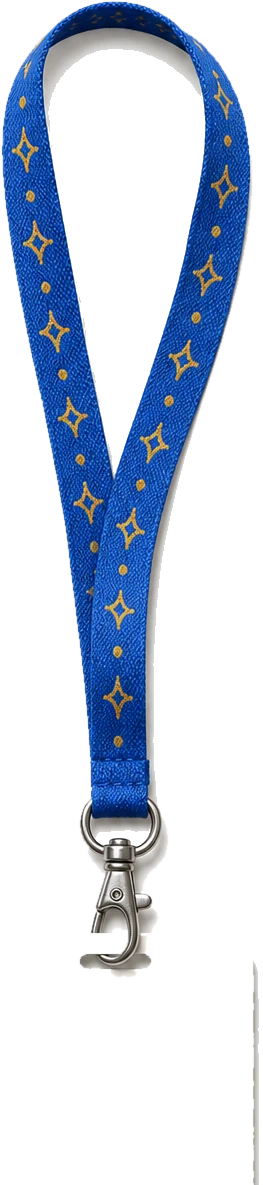
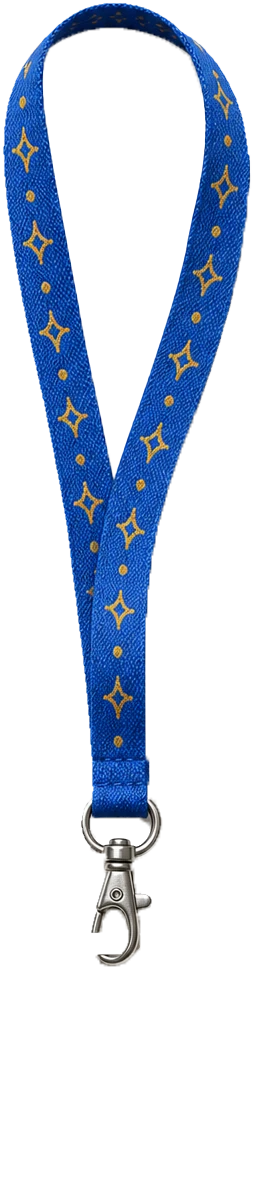
Fix document cover render, add homepage writing teaser, polish content
- Blog document cover: replace the unreliable CSS mask with a gradient
  overlay fade so the peeking pages behind the cover actually render, and
  bump its size
- Add a Latest writing section on the homepage linking to the newest post
- Ticket stubs: fix dates crowding the bottom edge on longer venue names
- Passport: drop the extra black bezel now that the real asset already
  renders its own binding
- Bookshelf: hover tooltip with title/author, linking out to Amazon,
  matching the watches interaction
- Update lanyard and passport-spread art with better keying
- Corkboard notes: refresh building/predicting/obsessing-over/vision cards
- Guard the proverb rolodex against an empty PROVERBS array
- Copy: blog essay title and opening line, about bio caption and aside

Claude-Session: https://claude.ai/code/session_019EimKuCz9ybaspSnoTAJrp

diff --git a/components/sections/reading.tsx b/components/sections/reading.tsx
@@ -32,6 +32,7 @@ function ShelfBook({ book, index }: { book: Book; index: number }) {
   const reduce = useReducedMotion();
   const { bg, ink } = SPINE_STYLES[book.spine];
   const tilt = BOOK_TILTS[index % BOOK_TILTS.length];
+  const amazonUrl = `https://www.amazon.co.uk/s?k=${encodeURIComponent(`${book.title} ${book.author}`)}`;
 
   return (
     <motion.li
@@ -41,34 +42,51 @@ function ShelfBook({ book, index }: { book: Book; index: number }) {
       whileHover={reduce ? undefined : { y: -10, rotate: 0, scale: 1.03 }}
       transition={{ ...springs.soft, delay: index * 0.06 }}
       style={{ rotate: `${tilt}deg` }}
-      className="relative z-10 -mx-1 cursor-default"
+      className="group relative z-10 -mx-1"
     >
-      <div
-        className="relative h-28 w-[4.5rem] overflow-hidden rounded-[2px] rounded-r-[4px] shadow-[0_10px_18px_-8px_rgb(0_0_0/0.55)] sm:h-44 sm:w-28"
-        style={{ background: bg }}
+      <a
+        href={amazonUrl}
+        target="_blank"
+        rel="noopener noreferrer"
+        aria-label={`${book.title} by ${book.author}, find it on Amazon`}
+        className="relative block rounded-[2px] outline-none focus-visible:ring-2 focus-visible:ring-accent"
       >
-        {book.coverImage ? (
-          /* eslint-disable-next-line @next/next/no-img-element */
-          <img src={book.coverImage} alt={`${book.title} cover`} loading="lazy" className="size-full object-cover" />
-        ) : (
-          /* typographic placeholder cover */
-          <div className="flex h-full flex-col justify-between p-2.5 sm:p-4" style={{ color: ink }}>
-            <p className="text-[9px] leading-tight font-bold sm:text-[13px]" style={{ fontFamily: "var(--font-display)" }}>
-              {book.title}
-            </p>
-            <p className="text-[7px] font-semibold tracking-[0.14em] uppercase opacity-85 sm:text-[9px]">{book.author}</p>
-          </div>
-        )}
-        {/* spine shadow at the binding + cover sheen */}
-        <span aria-hidden className="pointer-events-none absolute inset-y-0 left-0 w-3 bg-gradient-to-r from-black/35 to-transparent" />
-        <span aria-hidden className="pointer-events-none absolute inset-0 bg-gradient-to-br from-white/12 via-transparent to-black/10" />
-      </div>
-      {/* page-block thickness on the right edge */}
-      <span
-        aria-hidden
-        className="absolute inset-y-1 -right-1 w-1.5 rounded-r-[2px]"
-        style={{ background: "repeating-linear-gradient(180deg, #efe8d2 0 2px, #ded4b8 2px 3px)" }}
-      />
+        <div
+          className="relative h-28 w-[4.5rem] overflow-hidden rounded-[2px] rounded-r-[4px] shadow-[0_10px_18px_-8px_rgb(0_0_0/0.55)] sm:h-44 sm:w-28"
+          style={{ background: bg }}
+        >
+          {book.coverImage ? (
+            /* eslint-disable-next-line @next/next/no-img-element */
+            <img src={book.coverImage} alt={`${book.title} cover`} loading="lazy" className="size-full object-cover" />
+          ) : (
+            /* typographic placeholder cover */
+            <div className="flex h-full flex-col justify-between p-2.5 sm:p-4" style={{ color: ink }}>
+              <p className="text-[9px] leading-tight font-bold sm:text-[13px]" style={{ fontFamily: "var(--font-display)" }}>
+                {book.title}
+              </p>
+              <p className="text-[7px] font-semibold tracking-[0.14em] uppercase opacity-85 sm:text-[9px]">{book.author}</p>
+            </div>
+          )}
+          {/* spine shadow at the binding + cover sheen */}
+          <span aria-hidden className="pointer-events-none absolute inset-y-0 left-0 w-3 bg-gradient-to-r from-black/35 to-transparent" />
+          <span aria-hidden className="pointer-events-none absolute inset-0 bg-gradient-to-br from-white/12 via-transparent to-black/10" />
+        </div>
+        {/* page-block thickness on the right edge */}
+        <span
+          aria-hidden
+          className="absolute inset-y-1 -right-1 w-1.5 rounded-r-[2px]"
+          style={{ background: "repeating-linear-gradient(180deg, #efe8d2 0 2px, #ded4b8 2px 3px)" }}
+        />
+        {/* proper tooltip with title + author, floats above the cover on hover */}
+        <div className="pointer-events-none absolute bottom-full left-1/2 z-30 mb-1.5 w-max max-w-[13rem] -translate-x-1/2 scale-95 rounded-xl border border-line bg-canvas-raised px-3 py-2 text-left opacity-0 shadow-[var(--shadow-lift)] transition-all duration-150 group-hover:scale-100 group-hover:opacity-100 group-focus-within:scale-100 group-focus-within:opacity-100">
+          <p className="font-display text-sm font-semibold text-ink">{book.title}</p>
+          <p className="mt-0.5 text-xs leading-snug text-ink-soft">{book.author}</p>
+          <span
+            aria-hidden
+            className="absolute top-full left-1/2 size-2.5 -translate-x-1/2 -translate-y-1/2 rotate-45 border-r border-b border-line bg-canvas-raised"
+          />
+        </div>
+      </a>
     </motion.li>
   );
 }

diff --git a/components/sections/latest-writing.tsx b/components/sections/latest-writing.tsx
@@ -1,0 +1,64 @@
+"use client";
+
+import Link from "next/link";
+import { Section } from "@/components/ui/section";
+import { Reveal } from "@/components/ui/reveal";
+import type { PostMeta } from "@/lib/blog";
+
+function formatDate(iso: string): string {
+  if (!iso) return "";
+  return new Date(`${iso}T12:00:00Z`).toLocaleDateString("en-GB", {
+    day: "numeric",
+    month: "long",
+    year: "numeric",
+    timeZone: "UTC",
+  });
+}
+
+/**
+ * A single teaser card for the most recent blog post, so the homepage always
+ * points at the newest writing without a full index. Renders nothing if
+ * there are no posts yet.
+ */
+export function LatestWriting({ post }: { post: PostMeta | null }) {
+  if (!post) return null;
+
+  return (
+    <Section id="writing" title="Latest writing" aside="fresh off the press">
+      <Reveal>
+        <Link
+          href={`/blog/${post.slug}`}
+          className="group block rounded-2xl border border-line bg-canvas-raised p-6 shadow-(--shadow-polaroid) transition-shadow outline-none hover:shadow-(--shadow-lift) focus-visible:ring-2 focus-visible:ring-accent sm:p-8"
+        >
+          <p className="font-sans font-semibold text-[11px] tracking-[0.25em] text-ink-soft uppercase">
+            {formatDate(post.date)}
+            {post.readingTime && <span className="ml-3">{post.readingTime}</span>}
+          </p>
+          <h3 className="mt-2 font-display text-2xl font-semibold tracking-tight text-balance group-hover:text-accent sm:text-3xl">
+            {post.title}
+          </h3>
+          <p className="mt-3 leading-relaxed text-ink-soft">{post.excerpt}</p>
+          <span className="mt-5 inline-flex items-center gap-1.5 text-sm font-semibold text-accent">
+            Read it
+            <svg
+              viewBox="0 0 24 24"
+              fill="none"
+              stroke="currentColor"
+              strokeWidth="1.8"
+              aria-hidden
+              className="size-4 transition-transform group-hover:translate-x-0.5"
+            >
+              <path d="M5 12h14m0 0-5-5m5 5-5 5" strokeLinecap="round" strokeLinejoin="round" />
+            </svg>
+          </span>
+        </Link>
+        <Link
+          href="/blog"
+          className="mt-4 inline-block rounded-md text-sm text-ink-soft underline decoration-line underline-offset-4 outline-none hover:text-ink focus-visible:ring-2 focus-visible:ring-accent"
+        >
+          All notes
+        </Link>
+      </Reveal>
+    </Section>
+  );
+}

diff --git a/data/proverbs.ts b/data/proverbs.ts
@@ -8,26 +8,6 @@ export type Proverb = {
 
 /**
  * Rotating proverbs on the kitenge card (brief section 6.13).
- * TODO(Sipho): confirm wording and add your favourites.
+ * TODO(Sipho): repopulate with the curated Luganda + Runyankole proverbs.
  */
-export const PROVERBS: Proverb[] = [
-  {
-    id: "kamu-kamu",
-    lang: "Luganda",
-    text: "Kamu kamu gwe muganda",
-    english: "Little by little, a bundle is made.",
-  },
-  {
-    id: "mbuulu",
-    lang: "Luganda",
-    text: "Agamba empanga atya ngo",
-    english: "He who speaks plainly fears no leopard.",
-  },
-  {
-    id: "rum-1",
-    lang: "Runyankole",
-    text: "Enyamaisha eteekateeka eri amaisho gabo",
-    // TODO(Sipho): confirm the exact wording of this Runyankole translation.
-    english: "Every herd has its own keeper.",
-  },
-];
+export const PROVERBS: Proverb[] = [];

diff --git a/components/blog/document-cover.tsx b/components/blog/document-cover.tsx
@@ -14,18 +14,15 @@ export function DocumentCover({
   return (
     <div
       aria-hidden
-      className={`pointer-events-none relative w-48 select-none sm:w-56 ${className}`}
+      className={`pointer-events-none relative w-64 select-none sm:w-80 ${className}`}
       style={{ filter: "drop-shadow(0 16px 26px rgb(0 0 0 / 0.22))" }}
     >
-      <div
-        style={{
-          maskImage: "linear-gradient(to bottom, #000 46%, transparent 90%)",
-          WebkitMaskImage: "linear-gradient(to bottom, #000 46%, transparent 90%)",
-        }}
-      >
-        {/* two sheets stacked behind the cover, peeking at the edges */}
-        <div className="absolute inset-0 translate-x-[10px] translate-y-[8px] rotate-[3.5deg] rounded-[4px] bg-[#e7e3d8] ring-1 ring-black/[0.06]" />
-        <div className="absolute inset-0 -translate-x-[7px] translate-y-[4px] -rotate-[2.5deg] rounded-[4px] bg-[#f2efe7] ring-1 ring-black/[0.06]" />
+      <div className="relative">
+        {/* two sheets stacked behind the cover, peeking at the edges. Told
+        apart from the page behind them by their own shadow and edge, the way
+        real paper is, not by colour. */}
+        <div className="absolute inset-0 translate-x-[14px] translate-y-[10px] rotate-[4deg] rounded-[4px] bg-[#faf8f2] shadow-[0_6px_16px_rgb(0_0_0/0.16)] ring-1 ring-black/10" />
+        <div className="absolute inset-0 -translate-x-[10px] translate-y-[6px] -rotate-[3deg] rounded-[4px] bg-[#fdfcf8] shadow-[0_4px_12px_rgb(0_0_0/0.14)] ring-1 ring-black/10" />
         {/* the front page */}
         {/* eslint-disable-next-line @next/next/no-img-element */}
         <img
@@ -34,6 +31,11 @@ export function DocumentCover({
           loading="lazy"
           className="relative block w-full rounded-[4px] bg-white ring-1 ring-black/10"
         />
+        {/* the whole stack fades to nothing about halfway down: an overlay
+        blending into the page background, not a CSS mask (unreliable across
+        browsers for this gradient), overshooting the box a little so the
+        rotated sheets' peeking corners fade too, not just the front page. */}
+        <div className="pointer-events-none absolute -inset-x-3 top-[44%] -bottom-6 bg-gradient-to-b from-transparent to-canvas" />
       </div>
     </div>
   );

diff --git a/data/now.ts b/data/now.ts
@@ -8,25 +8,25 @@ export const NOW = {
     {
       id: "building",
       label: "building",
-      text: "Chariot on Arc, and this little corner of the internet.",
+      text: "Zion, and everything LI.FI is doing across the ecosystem.",
       rotate: -2,
     },
     {
-      id: "reading",
-      label: "reading",
-      text: "The Weight of Glory by C.S. Lewis, plus the daily chapter.",
+      id: "predicting",
+      label: "predicting",
+      text: "The Clarity Act passing is going to be huge for crypto this year.",
       rotate: 1.5,
     },
     {
-      id: "listening",
-      label: "listening",
-      text: "Whatever the vinyl below is spinning. Taste varies, volume doesn't.",
+      id: "obsessing",
+      label: "obsessing over",
+      text: "RWAs, onchain tokenization, and Jerusalem archaeology from Jesus's time.",
       rotate: -1,
     },
     {
-      id: "where",
-      label: "where I am",
-      text: "In London: meeting web3 people, attending hackathons, building projects, and networking.",
+      id: "vision",
+      label: "next 3 months",
+      text: "Using AI to ride the changing SaaS landscape and solve niche problems.",
       rotate: 2.5,
     },
   ] as const,

diff --git a/components/sections/talks.tsx b/components/sections/talks.tsx
@@ -157,12 +157,12 @@ function Stub({ talk, index }: { talk: Talk; index: number }) {
             <img src={aiSrc} alt="" loading="lazy" className="w-full" />
             {/* text kept inside the ticket's cream safe area: the ornamental
                 border and torn stub start near 78% width, so cap the right. */}
-            <div className="absolute inset-y-[12%] left-[9%] right-[27%] flex flex-col justify-center">
-              <p className="line-clamp-2 font-display text-sm leading-snug font-semibold text-[#141416] sm:text-base">
+            <div className="absolute inset-y-[9%] left-[9%] right-[27%] flex flex-col justify-center">
+              <p className="line-clamp-1 font-display text-sm leading-snug font-semibold text-[#141416] sm:text-base">
                 {talk.title}
               </p>
-              <p className="mt-1 text-xs leading-tight text-[#55534e] sm:text-sm">{talk.venue}</p>
-              <p className="mt-1.5 font-sans text-[10px] font-semibold tracking-[0.22em] text-accent uppercase">
+              <p className="mt-1 line-clamp-2 text-xs leading-tight text-[#55534e] sm:text-sm">{talk.venue}</p>
+              <p className="mt-1 font-sans text-[10px] font-semibold tracking-[0.22em] text-accent uppercase">
                 {talk.date}
               </p>
               {talk.note && (

diff --git a/components/sections/passport.tsx b/components/sections/passport.tsx
@@ -205,7 +205,11 @@ export function Passport() {
             className="pointer-events-none absolute -top-14 right-2 z-20 hidden w-40 -rotate-[4deg] select-none drop-shadow-[0_12px_20px_rgb(0_0_0/0.32)] sm:block xl:right-0 xl:w-52"
           />
         )}
-        <div className="relative z-10 -rotate-[0.6deg] rounded-[1.6rem] bg-night p-2.5 pb-4 shadow-(--shadow-lift) sm:p-3 sm:pb-5">
+        <div
+          className={`relative z-10 -rotate-[0.6deg] rounded-[1.6rem] shadow-(--shadow-lift) ${
+            spreadSrc ? "" : "bg-night p-2.5 pb-4 sm:p-3 sm:pb-5"
+          }`}
+        >
           <div className={`grid overflow-hidden rounded-[1.1rem] sm:grid-cols-2 ${spreadSrc ? "relative" : ""}`}>
             {spreadSrc && (
               // eslint-disable-next-line @next/next/no-img-element

diff --git a/app/page.tsx b/app/page.tsx
@@ -15,9 +15,11 @@ import { Talks } from "@/components/sections/talks";
 import { Passport } from "@/components/sections/passport";
 import { Proverb } from "@/components/sections/proverb";
 import { Faith } from "@/components/sections/faith";
+import { LatestWriting } from "@/components/sections/latest-writing";
 import { Testimonials } from "@/components/sections/testimonials";
 import { Guestbook } from "@/components/sections/guestbook";
 import { Connect } from "@/components/sections/connect";
+import { getAllPosts } from "@/lib/blog";
 
 /**
  * The intimate scroll (brief section 5): seventeen sections, each a designed
@@ -25,6 +27,8 @@ import { Connect } from "@/components/sections/connect";
  * closes the page with the wax seal.
  */
 export default function Home() {
+  const [latestPost = null] = getAllPosts();
+
   return (
     <main id="main-content">
       <Preloader />
@@ -44,6 +48,7 @@ export default function Home() {
       <Passport />
       <Proverb />
       <Faith />
+      <LatestWriting post={latestPost} />
       <Testimonials />
       <Guestbook />
       <Connect />

diff --git a/components/sections/about.tsx b/components/sections/about.tsx
@@ -80,7 +80,7 @@ export function About() {
             <BentoCard>
               <p className="leading-relaxed text-ink-soft">{BIO.offKeyboard}</p>
               <Handwritten className="mt-4" rotate={-1.5}>
-                the part a CV never captures
+                you won&apos;t find this part in an interview
               </Handwritten>
             </BentoCard>
           </Reveal>

diff --git a/data/about.ts b/data/about.ts
@@ -21,4 +21,4 @@ export const IDENTITY_CHIPS = [
 ];
 
 /** Polaroid caption (Luganda flavour). */
-export const POLAROID_CAPTION = "nze ono (that's me)";
+export const POLAROID_CAPTION = "that's me";

diff --git a/components/sections/proverb.tsx b/components/sections/proverb.tsx
@@ -65,6 +65,7 @@ export function Proverb() {
   }, [paused, cycle, advance]);
 
   const current = PROVERBS[index];
+  if (!current) return null; // hidden until PROVERBS is repopulated
 
   return (
     <Section id="proverb" title="Wise sayings from home" aside="luganda & runyankole">